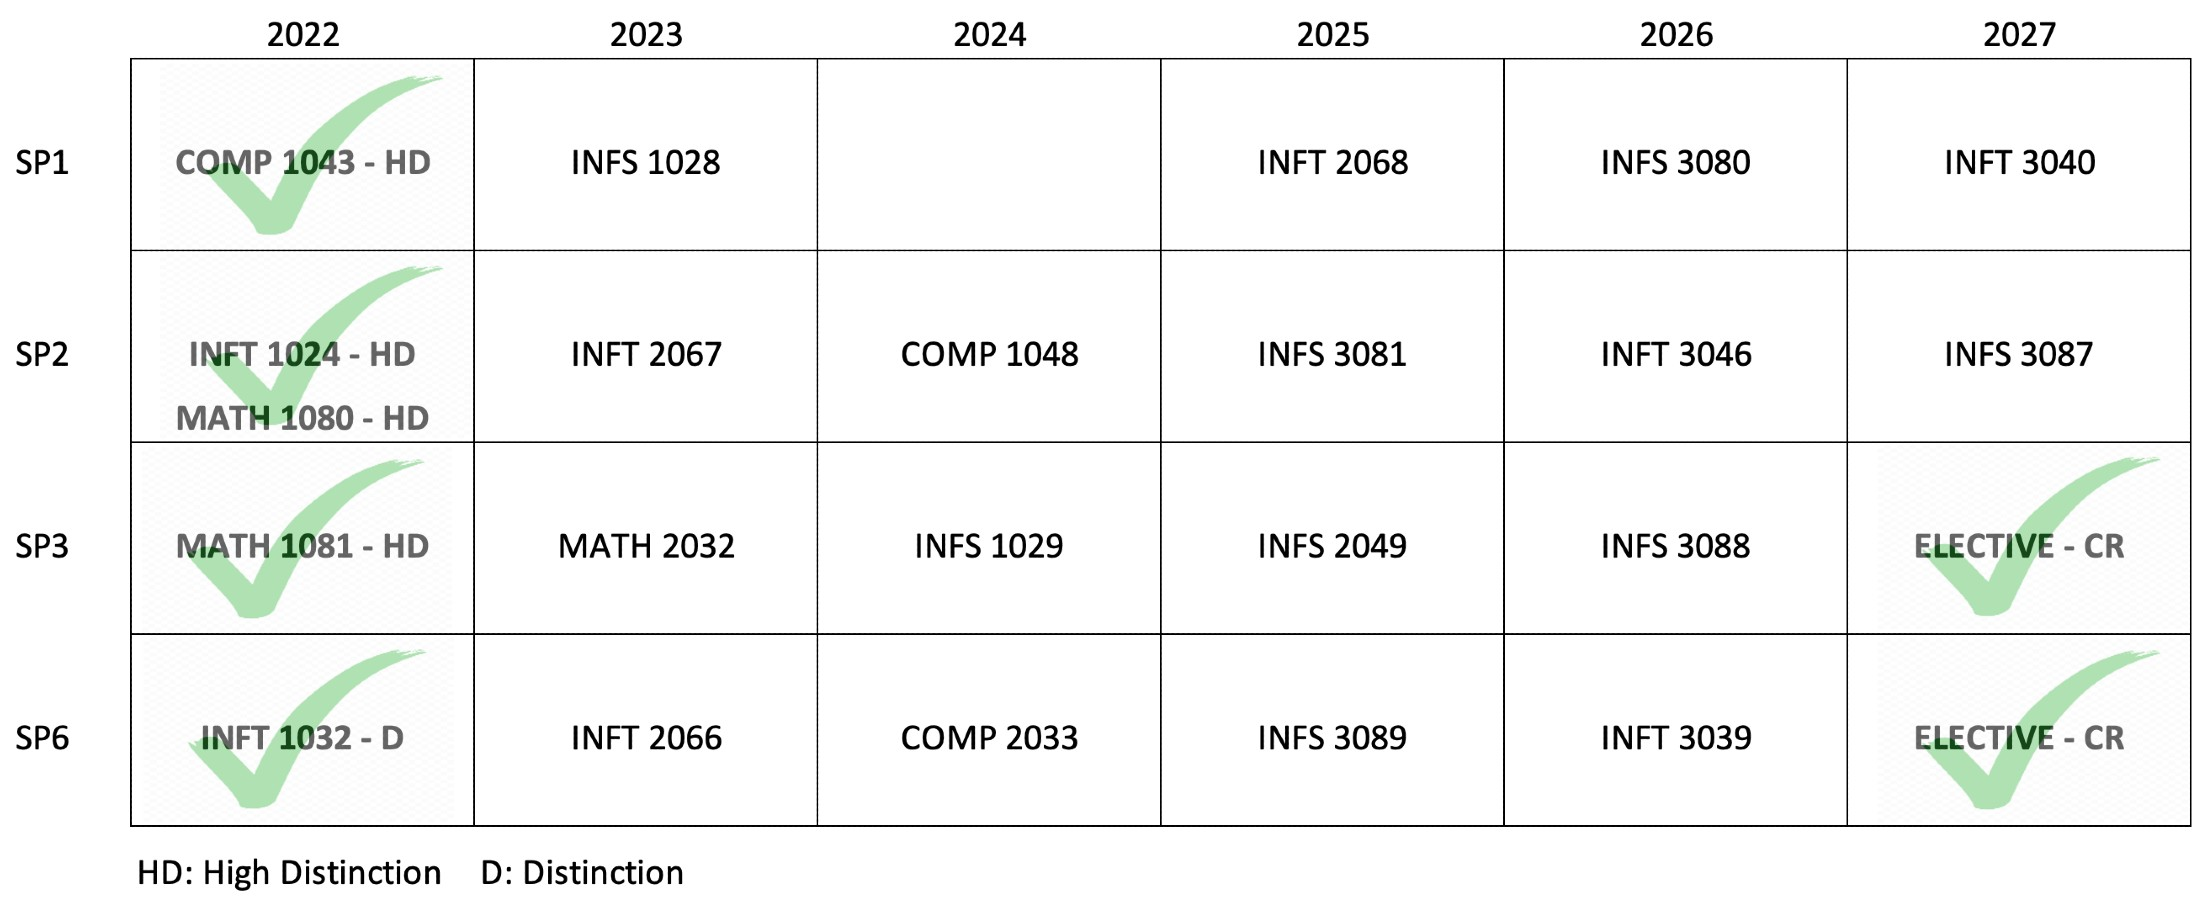
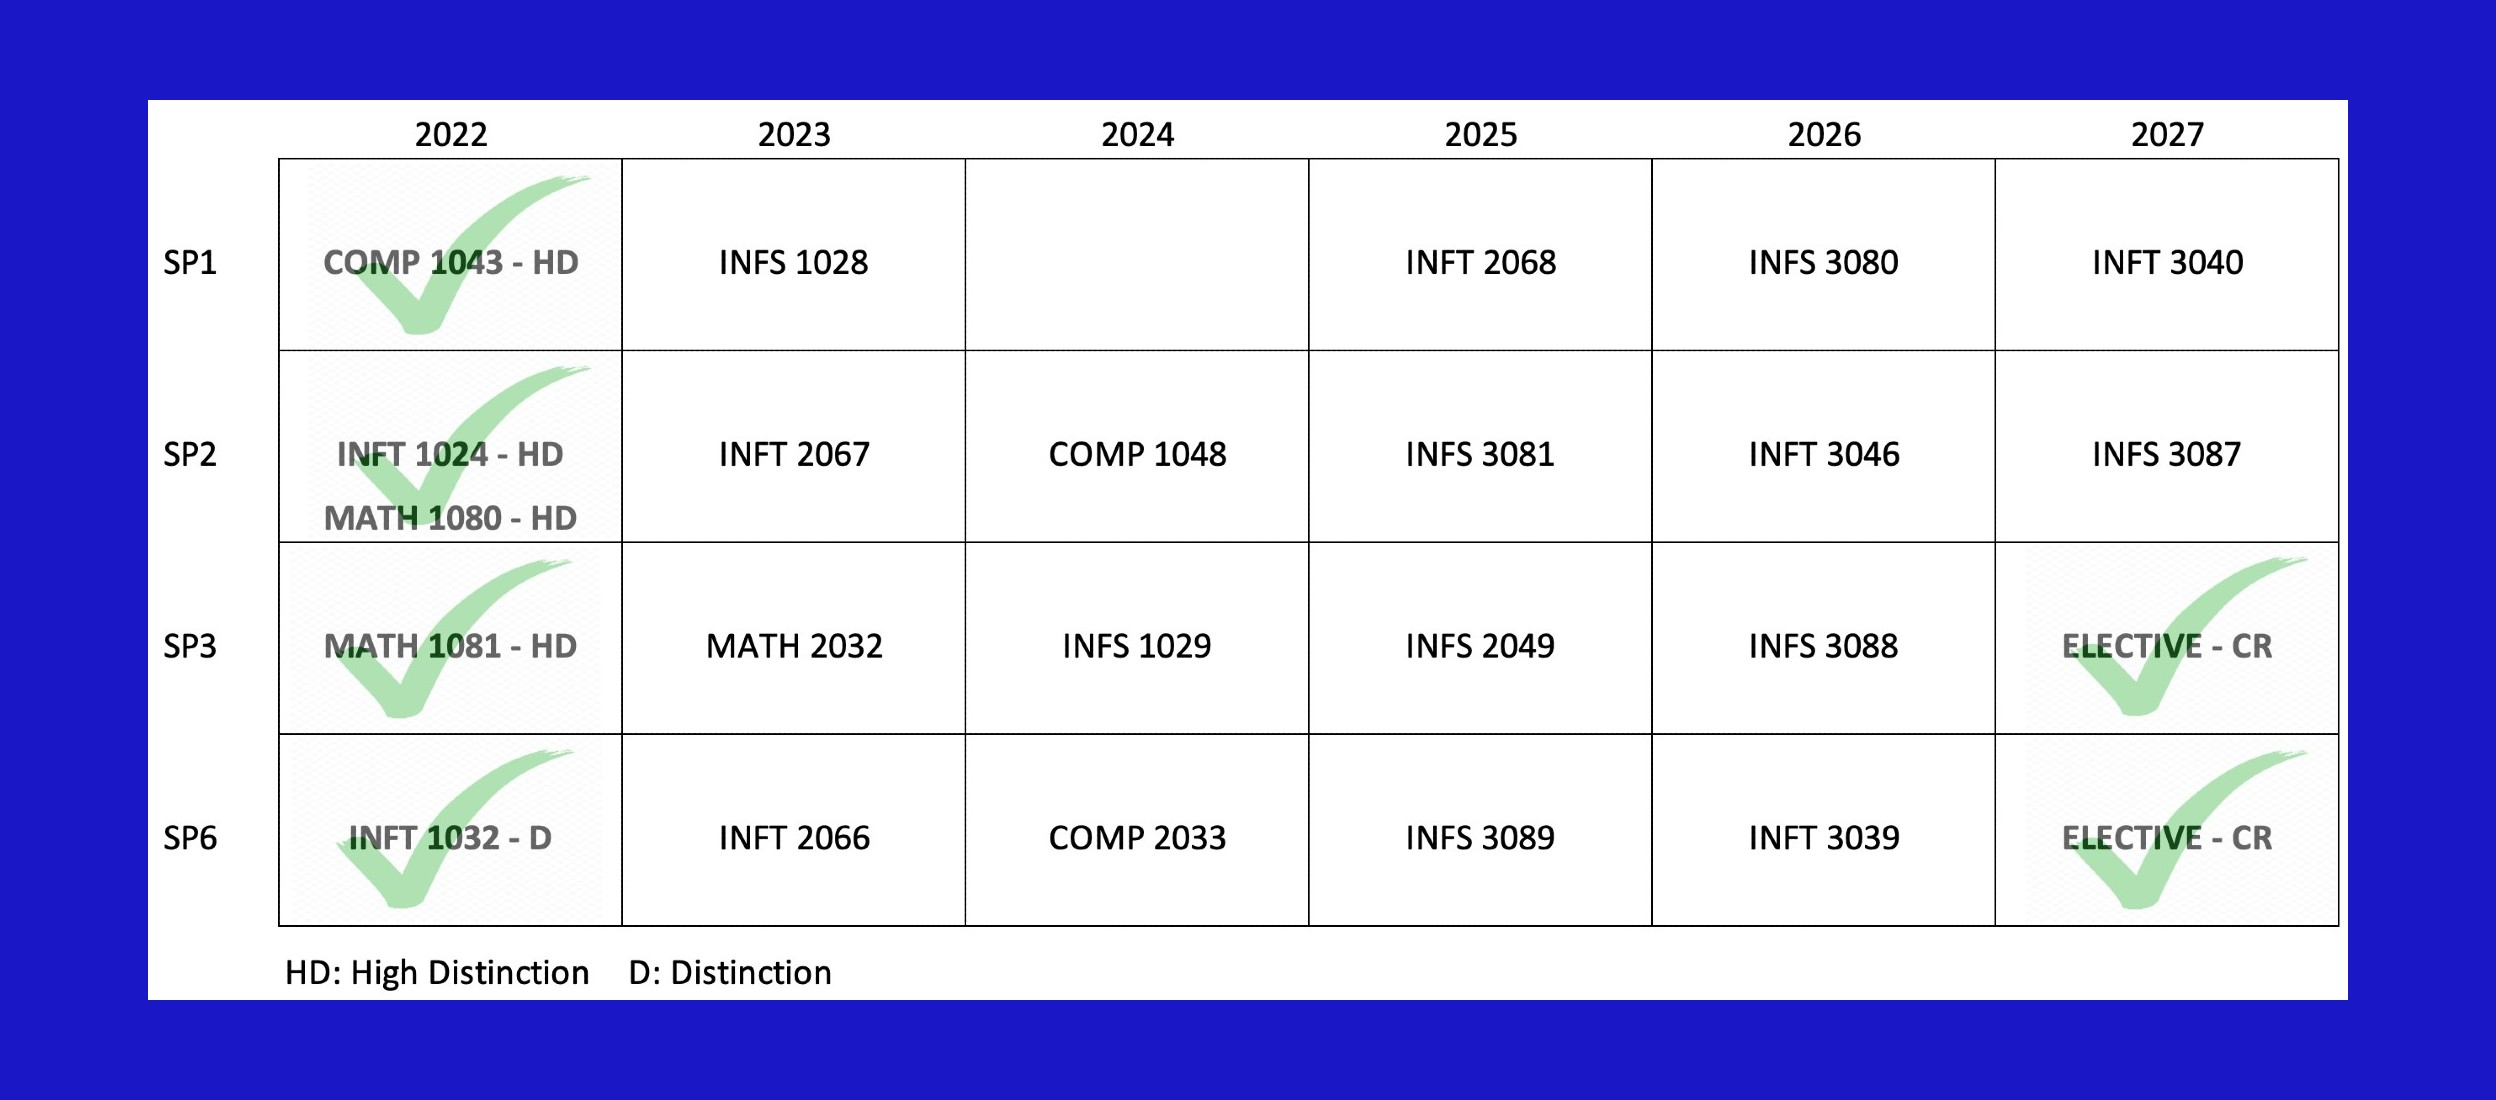
Change uni course image to png. Seems to work better.

diff --git a/_site/blog.html b/_site/blog.html
@@ -51,16 +51,17 @@ pre.numberSource code > span > a:first-child::before
   }
 pre.numberSource { margin-left: 3em; border-left: 1px solid #aaaaaa;  padding-left: 4px; }
 div.sourceCode
-  {   }
+  { color: #00769e; background-color: #f1f3f5; }
 @media screen {
 pre > code.sourceCode > span > a:first-child::before { text-decoration: underline; }
 }
+code span { color: #00769e; } /* Normal */
 code span.al { color: #ad0000; } /* Alert */
 code span.an { color: #5e5e5e; } /* Annotation */
-code span.at { } /* Attribute */
+code span.at { color: #657422; } /* Attribute */
 code span.bn { color: #ad0000; } /* BaseN */
 code span.bu { } /* BuiltIn */
-code span.cf { color: #007ba5; } /* ControlFlow */
+code span.cf { color: #00769e; } /* ControlFlow */
 code span.ch { color: #20794d; } /* Char */
 code span.cn { color: #8f5902; } /* Constant */
 code span.co { color: #5e5e5e; } /* Comment */
@@ -74,9 +75,9 @@ code span.fl { color: #ad0000; } /* Float */
 code span.fu { color: #4758ab; } /* Function */
 code span.im { } /* Import */
 code span.in { color: #5e5e5e; } /* Information */
-code span.kw { color: #007ba5; } /* Keyword */
+code span.kw { color: #00769e; } /* Keyword */
 code span.op { color: #5e5e5e; } /* Operator */
-code span.ot { color: #007ba5; } /* Other */
+code span.ot { color: #00769e; } /* Other */
 code span.pp { color: #ad0000; } /* Preprocessor */
 code span.sc { color: #5e5e5e; } /* SpecialChar */
 code span.ss { color: #20794d; } /* SpecialString */
@@ -787,6 +788,7 @@ code span.wa { color: #5e5e5e; font-style: italic; } /* Warning */
   d-article table.gt_table td,
   d-article table.gt_table th {
     border-bottom: none;
+    font-size: 100%;
   }
 
   .html-widget {
@@ -1028,10 +1030,6 @@ code span.wa { color: #5e5e5e; font-style: italic; } /* Warning */
     position: relative;
     margin-bottom: 2.5em;
     margin-top: 1.5em;
-  }
-
-  .figure img {
-    width: 100%;
   }
 
   .figure .caption {
@@ -1863,9 +1861,21 @@ code span.wa { color: #5e5e5e; font-style: italic; } /* Warning */
 
       // hoverable references
       $('span.citation[data-cites]').each(function() {
+        const citeChild = $(this).children()[0]
+        // Do not process if @xyz has been used without escaping and without bibliography activated
+        // https://github.com/rstudio/distill/issues/466
+        if (citeChild === undefined) return true
+
+        if (citeChild.nodeName == "D-FOOTNOTE") {
+          var fn = citeChild
+          $(this).html(fn.shadowRoot.querySelector("sup"))
+          $(this).id = fn.id
+          fn.remove()
+        }
         var refs = $(this).attr('data-cites').split(" ");
         var refHtml = refs.map(function(ref) {
-          return "<p>" + $('#ref-' + ref).html() + "</p>";
+          // Could use CSS.escape too here, we insure backward compatibility in navigator
+          return "<p>" + $('div[id="ref-' + ref + '"]').html() + "</p>";
         }).join("\n");
         window.tippy(this, {
           allowHTML: true,
@@ -1877,6 +1887,31 @@ code span.wa { color: #5e5e5e; font-style: italic; } /* Warning */
           placement: 'bottom-start'
         });
       });
+
+      // fix footnotes in tables (#411)
+      // replacing broken distill.pub feature
+      $('table d-footnote').each(function() {
+        // we replace internal showAtNode methode which is triggered when hovering a footnote
+        this.hoverBox.showAtNode = function(node) {
+          // ported from https://github.com/distillpub/template/pull/105/files
+          calcOffset = function(elem) {
+              let x = elem.offsetLeft;
+              let y = elem.offsetTop;
+              // Traverse upwards until an `absolute` element is found or `elem`
+              // becomes null.
+              while (elem = elem.offsetParent && elem.style.position != 'absolute') {
+                  x += elem.offsetLeft;
+                  y += elem.offsetTop;
+              }
+
+              return { left: x, top: y };
+          }
+          // https://developer.mozilla.org/en-US/docs/Web/API/HTMLElement/offsetTop
+          const bbox = node.getBoundingClientRect();
+          const offset = calcOffset(node);
+          this.show([offset.left + bbox.width, offset.top + bbox.height]);
+        }
+      })
 
       // clear polling timer
       clearInterval(tid);
@@ -1976,6 +2011,8 @@ code span.wa { color: #5e5e5e; font-style: italic; } /* Warning */
     // mark non-body figures created by knitr chunks as 100% width
     $('.layout-chunk').each(function(i, val) {
       var figures = $(this).find('img, .html-widget');
+      // ignore leaflet img layers (#106)
+      figures = figures.filter(':not(img[class*="leaflet"])')
       if ($(this).attr('data-layout') !== "l-body") {
         figures.css('width', '100%');
       } else {
@@ -1998,7 +2035,7 @@ code span.wa { color: #5e5e5e; font-style: italic; } /* Warning */
     // get rid of index.html references in header
     if (window.location.protocol !== "file:") {
       $('.distill-site-header a[href]').each(function(i,val) {
-        $(this).attr('href', $(this).attr('href').replace("index.html", "./"));
+        $(this).attr('href', $(this).attr('href').replace(/^index[.]html/, "./"));
       });
     }
 
@@ -2347,7 +2384,7 @@ code span.wa { color: #5e5e5e; font-style: italic; } /* Warning */
     color: var(--hover-color, white);
   }</style>
   <!--/radix_placeholder_distill-->
-  <script src="site_libs/header-attrs-2.11.3/header-attrs.js"></script>
+  <script src="site_libs/header-attrs-2.16/header-attrs.js"></script>
   <script src="site_libs/popper-2.6.0/popper.min.js"></script>
   <link href="site_libs/tippy-6.2.7/tippy.css" rel="stylesheet" />
   <link href="site_libs/tippy-6.2.7/tippy-light-border.css" rel="stylesheet" />
@@ -2556,12 +2593,14 @@ function init_posts_list() {
 <a href="posts/2022-09-18-bachelor-of-data-analytics/" class="post-preview">
 <script class="post-metadata" type="text/json">{"categories":["data analytics","university","education"]}</script>
 <div class="metadata">
-<div class="publishedDate">Sept. 23, 2022</div>
+<div class="publishedDate">Sept. 24, 2022</div>
 <div class="dt-authors">
 <div class="dt-author">Mike Hudson</div>
 </div>
 </div>
-<div class="thumbnail"></div>
+<div class="thumbnail">
+<img src="posts/2022-09-18-bachelor-of-data-analytics/unisa_course_2022-12-18.png"/>
+</div>
 <div class="description">
 <h2>Bachelor of Data Analytics</h2>
 <div class="dt-tags">

diff --git a/_site/posts/2022-09-18-bachelor-of-data-analytics/index.html b/_site/posts/2022-09-18-bachelor-of-data-analytics/index.html
@@ -104,14 +104,20 @@ code span.wa { color: #5e5e5e; font-style: italic; } /* Warning */
 <meta property="og:type" content="article"/>
 <meta property="og:description" content="Currently studying at University of South Australia."/>
 <meta property="og:url" content="https://mike-distill-blog.netlify.app/posts/2022-09-18-bachelor-of-data-analytics/"/>
+<meta property="og:image" content="https://mike-distill-blog.netlify.app/posts/2022-09-18-bachelor-of-data-analytics/unisa_course_2022-12-18.png"/>
+<meta property="og:image:width" content="1200"/>
+<meta property="og:image:height" content="800"/>
 <meta property="og:locale" content="en_US"/>
 <meta property="og:site_name" content="Blog by Mike"/>
 
 <!--  https://dev.twitter.com/cards/types/summary -->
-<meta property="twitter:card" content="summary"/>
+<meta property="twitter:card" content="summary_large_image"/>
 <meta property="twitter:title" content="Blog by Mike: Bachelor of Data Analytics"/>
 <meta property="twitter:description" content="Currently studying at University of South Australia."/>
 <meta property="twitter:url" content="https://mike-distill-blog.netlify.app/posts/2022-09-18-bachelor-of-data-analytics/"/>
+<meta property="twitter:image" content="https://mike-distill-blog.netlify.app/posts/2022-09-18-bachelor-of-data-analytics/unisa_course_2022-12-18.png"/>
+<meta property="twitter:image:width" content="1200"/>
+<meta property="twitter:image:height" content="800"/>
 <meta property="twitter:site" content="@mikejhudson"/>
 <meta property="twitter:creator" content="@mikejhudson"/>
 
@@ -130,7 +136,7 @@ code span.wa { color: #5e5e5e; font-style: italic; } /* Warning */
 <!--/radix_placeholder_rmarkdown_metadata-->
   
   <script type="text/json" id="radix-resource-manifest">
-  {"type":"character","attributes":{},"value":["bachelor-of-data-analytics_files/anchor-4.2.2/anchor.min.js","bachelor-of-data-analytics_files/bowser-1.9.3/bowser.min.js","bachelor-of-data-analytics_files/distill-2.2.21/template.v2.js","bachelor-of-data-analytics_files/header-attrs-2.16/header-attrs.js","bachelor-of-data-analytics_files/jquery-3.6.0/jquery-3.6.0.js","bachelor-of-data-analytics_files/jquery-3.6.0/jquery-3.6.0.min.js","bachelor-of-data-analytics_files/jquery-3.6.0/jquery-3.6.0.min.map","bachelor-of-data-analytics_files/popper-2.6.0/popper.min.js","bachelor-of-data-analytics_files/tippy-6.2.7/tippy-bundle.umd.min.js","bachelor-of-data-analytics_files/tippy-6.2.7/tippy-light-border.css","bachelor-of-data-analytics_files/tippy-6.2.7/tippy.css","bachelor-of-data-analytics_files/tippy-6.2.7/tippy.umd.min.js","bachelor-of-data-analytics_files/webcomponents-2.0.0/webcomponents.js","unisa_course_2022-09-15.png","unisa_course_2022-09-24.png","unisa_course_2022-12-18.jpg"]}
+  {"type":"character","attributes":{},"value":["bachelor-of-data-analytics_files/anchor-4.2.2/anchor.min.js","bachelor-of-data-analytics_files/bowser-1.9.3/bowser.min.js","bachelor-of-data-analytics_files/distill-2.2.21/template.v2.js","bachelor-of-data-analytics_files/header-attrs-2.16/header-attrs.js","bachelor-of-data-analytics_files/jquery-3.6.0/jquery-3.6.0.js","bachelor-of-data-analytics_files/jquery-3.6.0/jquery-3.6.0.min.js","bachelor-of-data-analytics_files/jquery-3.6.0/jquery-3.6.0.min.map","bachelor-of-data-analytics_files/popper-2.6.0/popper.min.js","bachelor-of-data-analytics_files/tippy-6.2.7/tippy-bundle.umd.min.js","bachelor-of-data-analytics_files/tippy-6.2.7/tippy-light-border.css","bachelor-of-data-analytics_files/tippy-6.2.7/tippy.css","bachelor-of-data-analytics_files/tippy-6.2.7/tippy.umd.min.js","bachelor-of-data-analytics_files/webcomponents-2.0.0/webcomponents.js","unisa_course_2022-09-15.png","unisa_course_2022-09-24.png","unisa_course_2022-12-18.jpg","unisa_course_2022-12-18.png"]}
   </script>
   <!--radix_placeholder_navigation_in_header-->
 <meta name="distill:offset" content="../.."/>
@@ -2495,7 +2501,7 @@ d-appendix d-footnote-list a.footnote-backlink {
 
 <div class="d-article">
 <div class="layout-chunk" data-layout="l-body">
-<p><img src="unisa_course_2022-12-18.jpg" /><!-- --></p>
+<p><img src="unisa_course_2022-12-18.png" width="600" /></p>
 </div>
 <h3 id="relevance-to-data-analytics-skills">Relevance to Data Analytics Skills</h3>
 <ul>

diff --git a/_posts/2022-09-18-bachelor-of-data-analytics/bachelor-of-data-analytics.html b/_posts/2022-09-18-bachelor-of-data-analytics/bachelor-of-data-analytics.html
@@ -118,7 +118,7 @@ code span.wa { color: #5e5e5e; font-style: italic; } /* Warning */
   <!--/radix_placeholder_rmarkdown_metadata-->
   
   <script type="text/json" id="radix-resource-manifest">
-  {"type":"character","attributes":{},"value":["bachelor-of-data-analytics_files/anchor-4.2.2/anchor.min.js","bachelor-of-data-analytics_files/bowser-1.9.3/bowser.min.js","bachelor-of-data-analytics_files/distill-2.2.21/template.v2.js","bachelor-of-data-analytics_files/header-attrs-2.16/header-attrs.js","bachelor-of-data-analytics_files/jquery-3.6.0/jquery-3.6.0.js","bachelor-of-data-analytics_files/jquery-3.6.0/jquery-3.6.0.min.js","bachelor-of-data-analytics_files/jquery-3.6.0/jquery-3.6.0.min.map","bachelor-of-data-analytics_files/popper-2.6.0/popper.min.js","bachelor-of-data-analytics_files/tippy-6.2.7/tippy-bundle.umd.min.js","bachelor-of-data-analytics_files/tippy-6.2.7/tippy-light-border.css","bachelor-of-data-analytics_files/tippy-6.2.7/tippy.css","bachelor-of-data-analytics_files/tippy-6.2.7/tippy.umd.min.js","bachelor-of-data-analytics_files/webcomponents-2.0.0/webcomponents.js","unisa_course_2022-09-15.png","unisa_course_2022-09-24.png","unisa_course_2022-12-18.jpg"]}
+  {"type":"character","attributes":{},"value":["bachelor-of-data-analytics_files/anchor-4.2.2/anchor.min.js","bachelor-of-data-analytics_files/bowser-1.9.3/bowser.min.js","bachelor-of-data-analytics_files/distill-2.2.21/template.v2.js","bachelor-of-data-analytics_files/header-attrs-2.16/header-attrs.js","bachelor-of-data-analytics_files/jquery-3.6.0/jquery-3.6.0.js","bachelor-of-data-analytics_files/jquery-3.6.0/jquery-3.6.0.min.js","bachelor-of-data-analytics_files/jquery-3.6.0/jquery-3.6.0.min.map","bachelor-of-data-analytics_files/popper-2.6.0/popper.min.js","bachelor-of-data-analytics_files/tippy-6.2.7/tippy-bundle.umd.min.js","bachelor-of-data-analytics_files/tippy-6.2.7/tippy-light-border.css","bachelor-of-data-analytics_files/tippy-6.2.7/tippy.css","bachelor-of-data-analytics_files/tippy-6.2.7/tippy.umd.min.js","bachelor-of-data-analytics_files/webcomponents-2.0.0/webcomponents.js","unisa_course_2022-09-15.png","unisa_course_2022-09-24.png","unisa_course_2022-12-18.jpg","unisa_course_2022-12-18.png"]}
   </script>
   <!--radix_placeholder_navigation_in_header-->
   <!--/radix_placeholder_navigation_in_header-->
@@ -1525,7 +1525,7 @@ code span.wa { color: #5e5e5e; font-style: italic; } /* Warning */
 
 <div class="d-article">
 <div class="layout-chunk" data-layout="l-body">
-<p><img src="unisa_course_2022-12-18.jpg" /><!-- --></p>
+<p><img src="unisa_course_2022-12-18.png" width="600" /></p>
 </div>
 <h3 id="relevance-to-data-analytics-skills">Relevance to Data Analytics Skills</h3>
 <ul>

diff --git a/_site/index_old.html b/_site/index_old.html
@@ -2561,7 +2561,9 @@ function init_posts_list() {
 <div class="dt-author">Mike Hudson</div>
 </div>
 </div>
-<div class="thumbnail"></div>
+<div class="thumbnail">
+<img src="posts/2022-09-18-bachelor-of-data-analytics/unisa_course_2022-12-18.png"/>
+</div>
 <div class="description">
 <h2>Bachelor of Data Analytics</h2>
 <div class="dt-tags">
